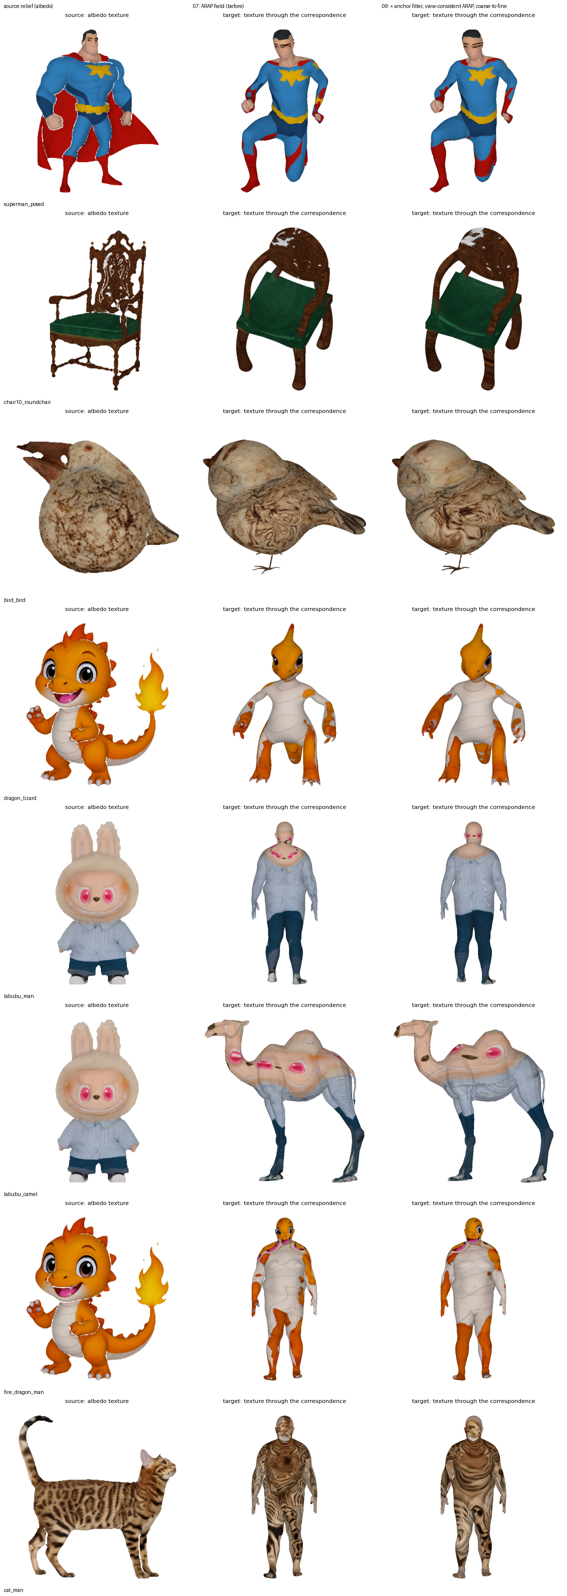
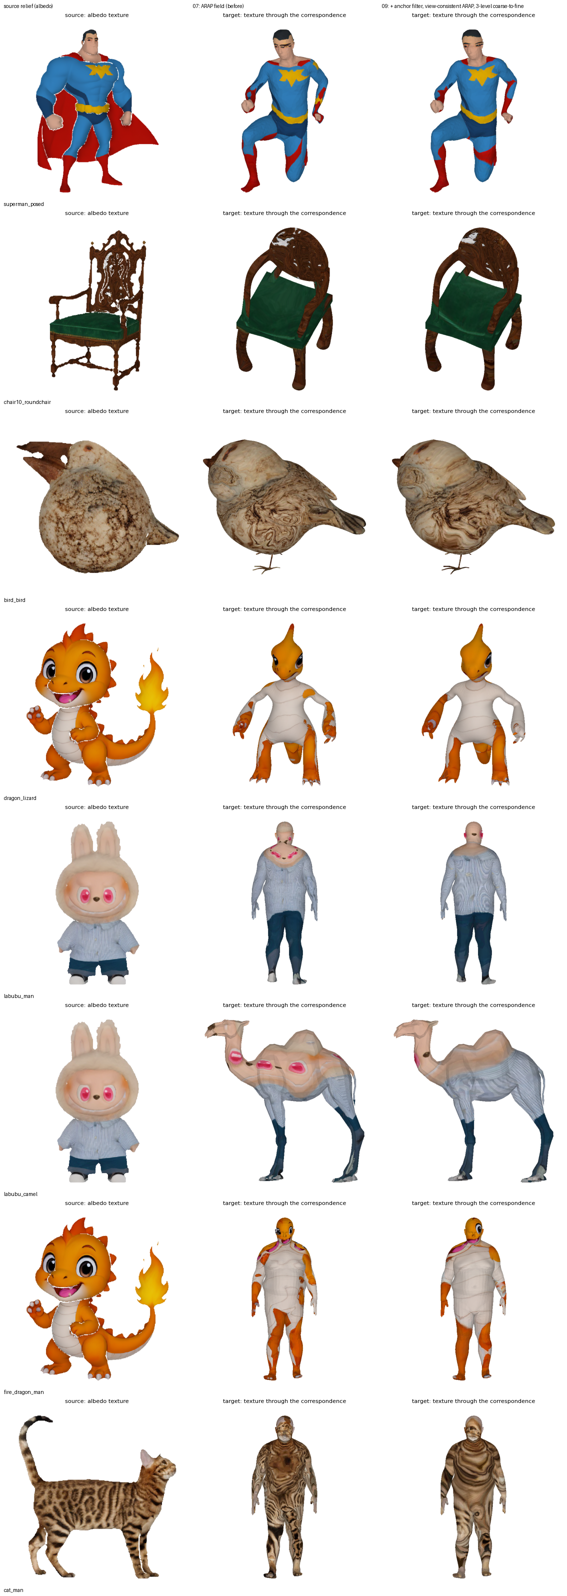
Three coarse-to-fine levels as the recommended setting; two-, four-level and gate variants stored
All 28 pairs: same-category within 2 % 64.3 -> 80.1 %, mirrored area 23.7 -> 9.1 %; cross
44.3 -> 72.1 %, 39 -> 14 %; synthetic within 1 % 65.3 -> 60.4 %. Four levels improves the span
numbers further but collapses the map (31 % of the relief used on cross pairs), so three is kept.

diff --git a/scripts/idarb/README.md b/scripts/idarb/README.md
@@ -998,29 +998,36 @@ faces). Three options of `refine_correspondence.py` act on this (`docs/decisions
   smoothness falling from 16× to the final weight, every level predicting each vertex's source
   position from the current field (the schedule of Jung et al. 2025's non-rigid ICP).
 
-Together (the 09 setting, `outputs/diff3f/09_texture_view_consistent/`,
-`results/diff3f/features_diff3f_view_c2f.csv`):
+Together they are the 09 setting (`outputs/diff3f/09_texture_view_consistent/`,
+`results/diff3f/features_diff3f_c2f3.csv`); the number of coarse-to-fine levels is the knob:
 
     python scripts/idarb/eval_features.py --feature_dir outputs/diff3f/features \
         --out_dir outputs/diff3f/09_texture_view_consistent \
-        --csv results/diff3f/features_diff3f_view_c2f.csv --variants arap \
-        --refine_args "--coarse_to_fine 2 --coarse_factor 4 --w_view 0.3 --anchor_filter rigid:0.1"
+        --csv results/diff3f/features_diff3f_c2f3.csv --variants arap \
+        --refine_args "--coarse_to_fine 3 --coarse_factor 4 --w_view 0.3 --anchor_filter rigid:0.1"
 
-| ARAP field, means | within 2 % | within 5 % | relief used | median distortion | mirrored area |
-|---|---|---|---|---|---|
-| 16 same-category, 07 setting | 64.3 % | 96.6 % | 65 % | 2.18 | 23.7 % |
-| 16 same-category, 09 setting | 73.6 % | 98.7 % | 59 % | 2.32 | 11.6 % |
-| 10 cross-category, 07 setting | 44.3 % | 89.3 % | 49 % | 2.31 | 39.0 % |
-| 10 cross-category, 09 setting | 60.4 % | 96.7 % | 41 % | 2.56 | 20.2 % |
+| ARAP field, means | within 2 % | within 5 % | relief used | median distortion | mirrored area | synthetic within 1 % |
+|---|---|---|---|---|---|---|
+| 16 same-category, 07 setting | 64.3 % | 96.6 % | 65 % | 2.18 | 23.7 % | 65.3 % |
+| same, 2 levels (`features_diff3f_c2f2.csv`) | 73.6 % | 98.7 % | 59 % | 2.32 | 11.6 % | 61.8 % |
+| **same, 3 levels (09)** | **80.1 %** | **99.2 %** | **56 %** | **2.23** | **9.1 %** | **60.4 %** |
+| same, 4 levels (`features_diff3f_c2f4.csv`) | 84.6 % | 99.6 % | 52 % | 2.18 | 6.8 % | 58.1 % |
+| 10 cross-category, 07 setting | 44.3 % | 89.3 % | 49 % | 2.31 | 39.0 % | |
+| cross, 2 levels | 60.4 % | 96.7 % | 41 % | 2.56 | 20.2 % | |
+| **cross, 3 levels (09)** | **72.1 %** | **98.2 %** | **37 %** | **2.45** | **14.1 %** | |
+| cross, 4 levels | 81.5 % | 99.1 % | 31 % | 2.31 | 8.8 % | |
 
-The mirrored area halves and the triangle consistency rises on both groups; the price is a
-smaller share of the relief used (the view pair pulls the map together where the matches
-disagree) and, on the synthetic ground truth, 3 points within 1 % (65.3 → 61.8 %; within 5 %
-unchanged at 99.5 %). `--w_view 1` (`results/diff3f/features_diff3f_view1_c2f.csv`) gains 3
-more points within 2 % but costs distortion (2.62 / 2.98) and relief used (56 / 38 %), so 0.3
-is the recommended weight. `results/diff3f/view_consistent_before_after.png` shows eight pairs
-before and after: the posed human's legs lose the cape bleed, the chair's backrest becomes one
-continuous pattern, the stone bird's pattern stops swirling.
+Every level smooths more: consistency and mirroring improve, the share of the relief used and
+the synthetic accuracy fall, and at four levels the map starts to collapse (31 % of the relief on
+the cross pairs; the Labubu's face vanishes from the camel instead of landing anywhere). Three
+levels is the recommended setting. The confidence gate on top (`--gate`,
+`features_diff3f_c2f3_gate.csv`) adds 0.4 / 4.2 points within 2 % for 0.4 / 2 points of relief
+used; not adopted. `--w_view 1` (`features_diff3f_view1_c2f.csv`, two levels) gains 3 points
+within 2 % but costs distortion (2.62 / 2.98) and relief used (56 / 38 %), so 0.3 is kept.
+`results/diff3f/view_consistent_before_after.png` shows eight pairs before and after: the
+posed human's legs lose the cape bleed, the chair's backrest becomes one continuous pattern,
+the stone bird's pattern stops swirling, and the Labubu's, the cat's and the panda's faces land
+on the man's face.
 
 `transfer_texture.py --min_cos c` leaves the faces blank whose normal makes a cosine below `c`
 with the texture camera (the edge-on faces that mirror most and show the image as a streak).

diff --git a/docs/decisions.md b/docs/decisions.md
@@ -490,11 +490,16 @@ The repository will be used beyond the original course, so the owner rewrote `AG
     2.53 → 3.36, relief used 59 → 53 %; with `--w_view 0.3` instead: 81.1 % / 98.8 % / 17.8 % /
     3.03 / 55 %. Synthetic ground truth: the view pair costs about 2 points within 1 % (cat 72.1 →
     69.9), coarse-to-fine is neutral, the rigid filter gains (cat 72.1 → 77.6 at 5 % threshold).
-- Decision, after the run over all 28 pairs (`results/diff3f/features_diff3f_view_c2f.csv`,
-  `outputs/diff3f/09_texture_view_consistent/`): `--coarse_to_fine 2 --coarse_factor 4 --w_view
-  0.3 --anchor_filter rigid:0.1` is the recommended setting. ARAP means, 07 → 09: same-category
-  within 2 % 64.3 → 73.6 %, within 5 % 96.6 → 98.7 %, mirrored area 23.7 → 11.6 %, distortion
-  2.18 → 2.32, relief used 65 → 59 %; cross-category 44.3 → 60.4 %, 89.3 → 96.7 %, 39.0 → 20.2 %,
-  2.31 → 2.56, 49 → 41 %; synthetic within 1 % 65.3 → 61.8 % (within 5 % 99.5 both). `--w_view 1`
-  gains 3 more points within 2 % at the cost of distortion 2.62 / 2.98 and relief used 56 / 38 %
-  (`features_diff3f_view1_c2f.csv`), so 0.3 is kept.
+- Decision, after runs over all 28 pairs with 2, 3 and 4 coarse-to-fine levels
+  (`results/diff3f/features_diff3f_c2f{2,3,4}.csv`, with `--w_view 0.3 --anchor_filter
+  rigid:0.1`): three levels is the recommended setting
+  (`outputs/diff3f/09_texture_view_consistent/`). ARAP means, 07 → 09: same-category within 2 %
+  64.3 → 80.1 %, within 5 % 96.6 → 99.2 %, mirrored area 23.7 → 9.1 %, distortion 2.18 → 2.23,
+  relief used 65 → 56 %; cross-category 44.3 → 72.1 %, 89.3 → 98.2 %, 39.0 → 14.1 %, 2.31 → 2.45,
+  49 → 37 %; synthetic within 1 % 65.3 → 60.4 % (within 5 % 99.5 both). Each extra level smooths
+  more; four levels reaches 84.6 / 81.5 % within 2 % and 6.8 / 8.8 % mirrored but uses only 52 /
+  31 % of the relief and drops the synthetic accuracy to 58.1 %, and on Labubu → camel the face
+  vanishes instead of landing anywhere, so the map is collapsing: not adopted. The confidence gate
+  on top adds little (`features_diff3f_c2f3_gate.csv`); `--w_view 1` costs distortion and relief
+  used (`features_diff3f_view1_c2f.csv`). Visible gains beyond the numbers: the Labubu's, the
+  cat's and the panda's faces now land on the man's face, the dragon's on the lizard's head.
